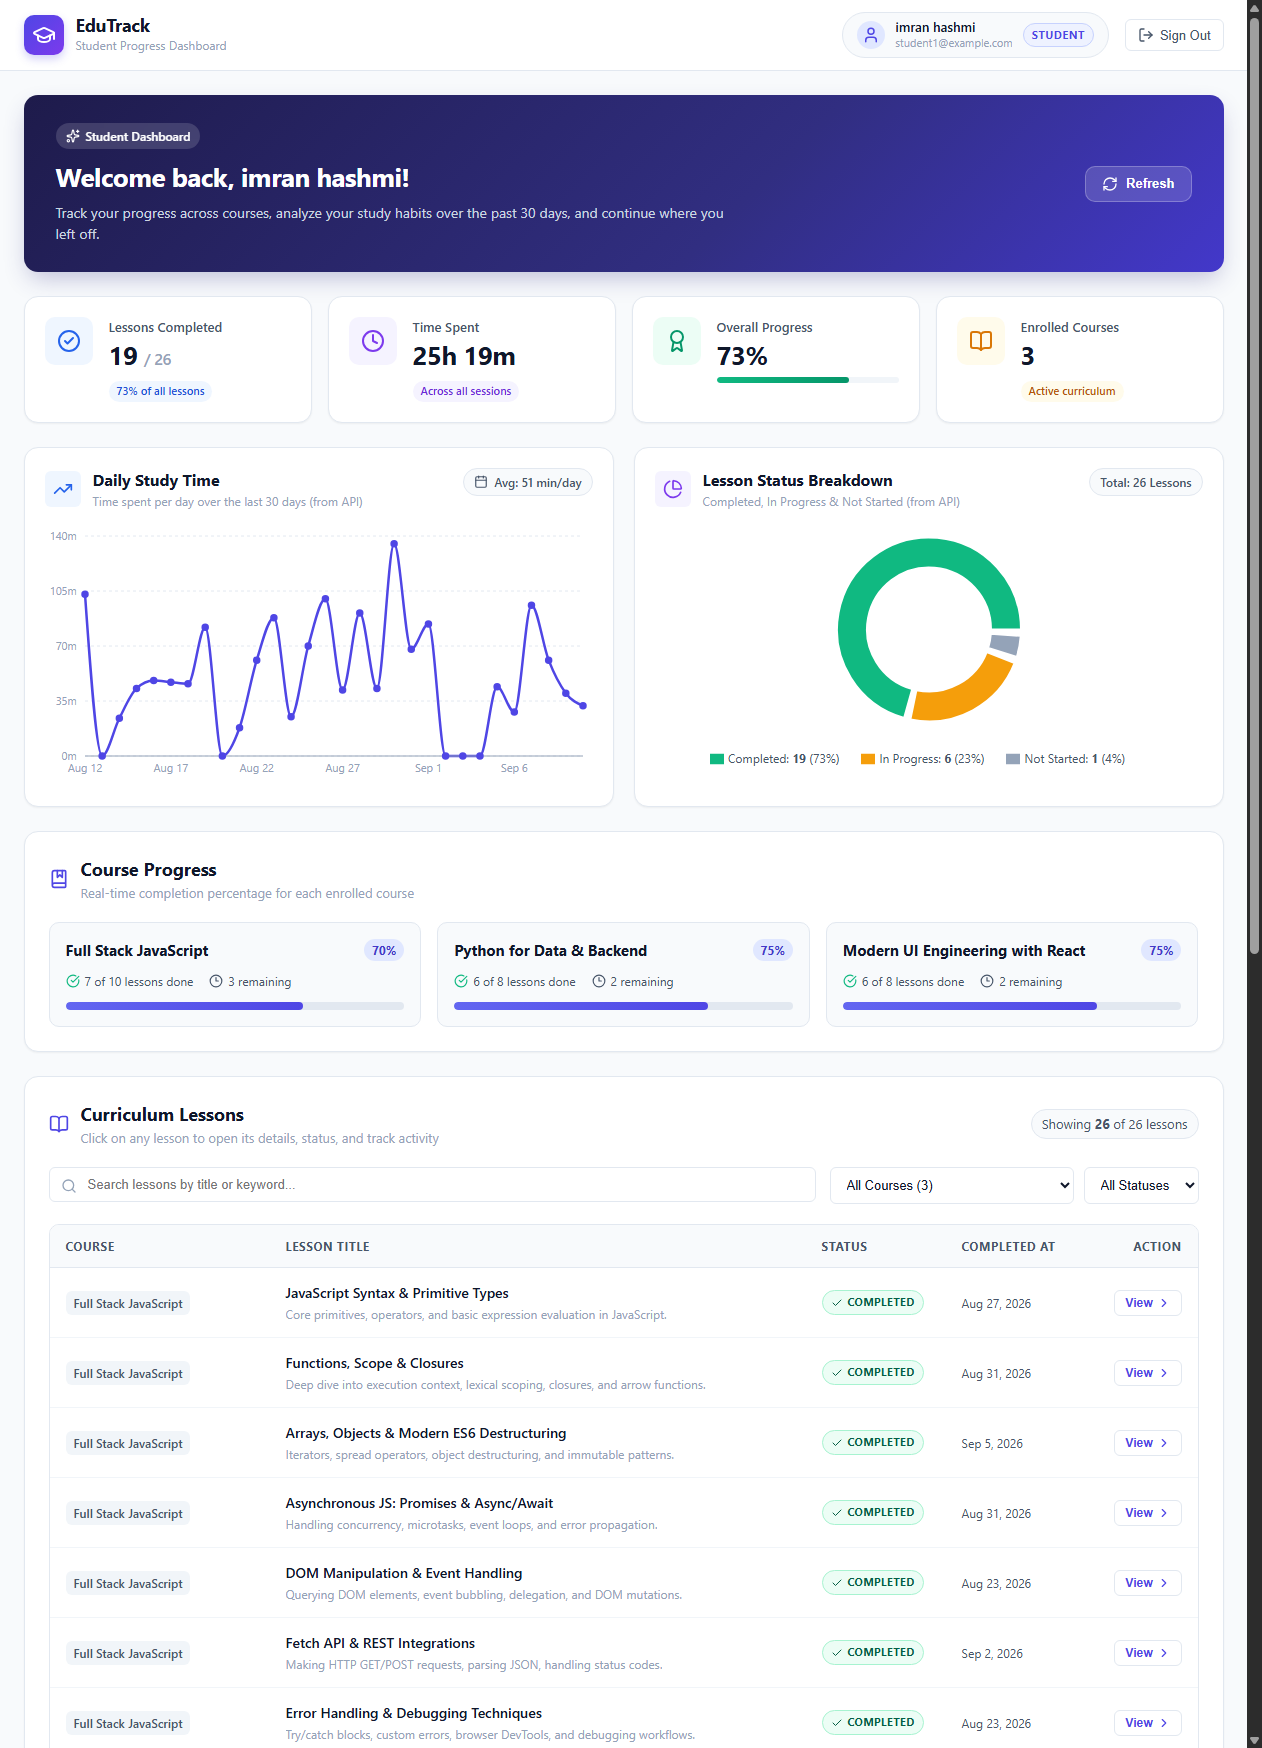
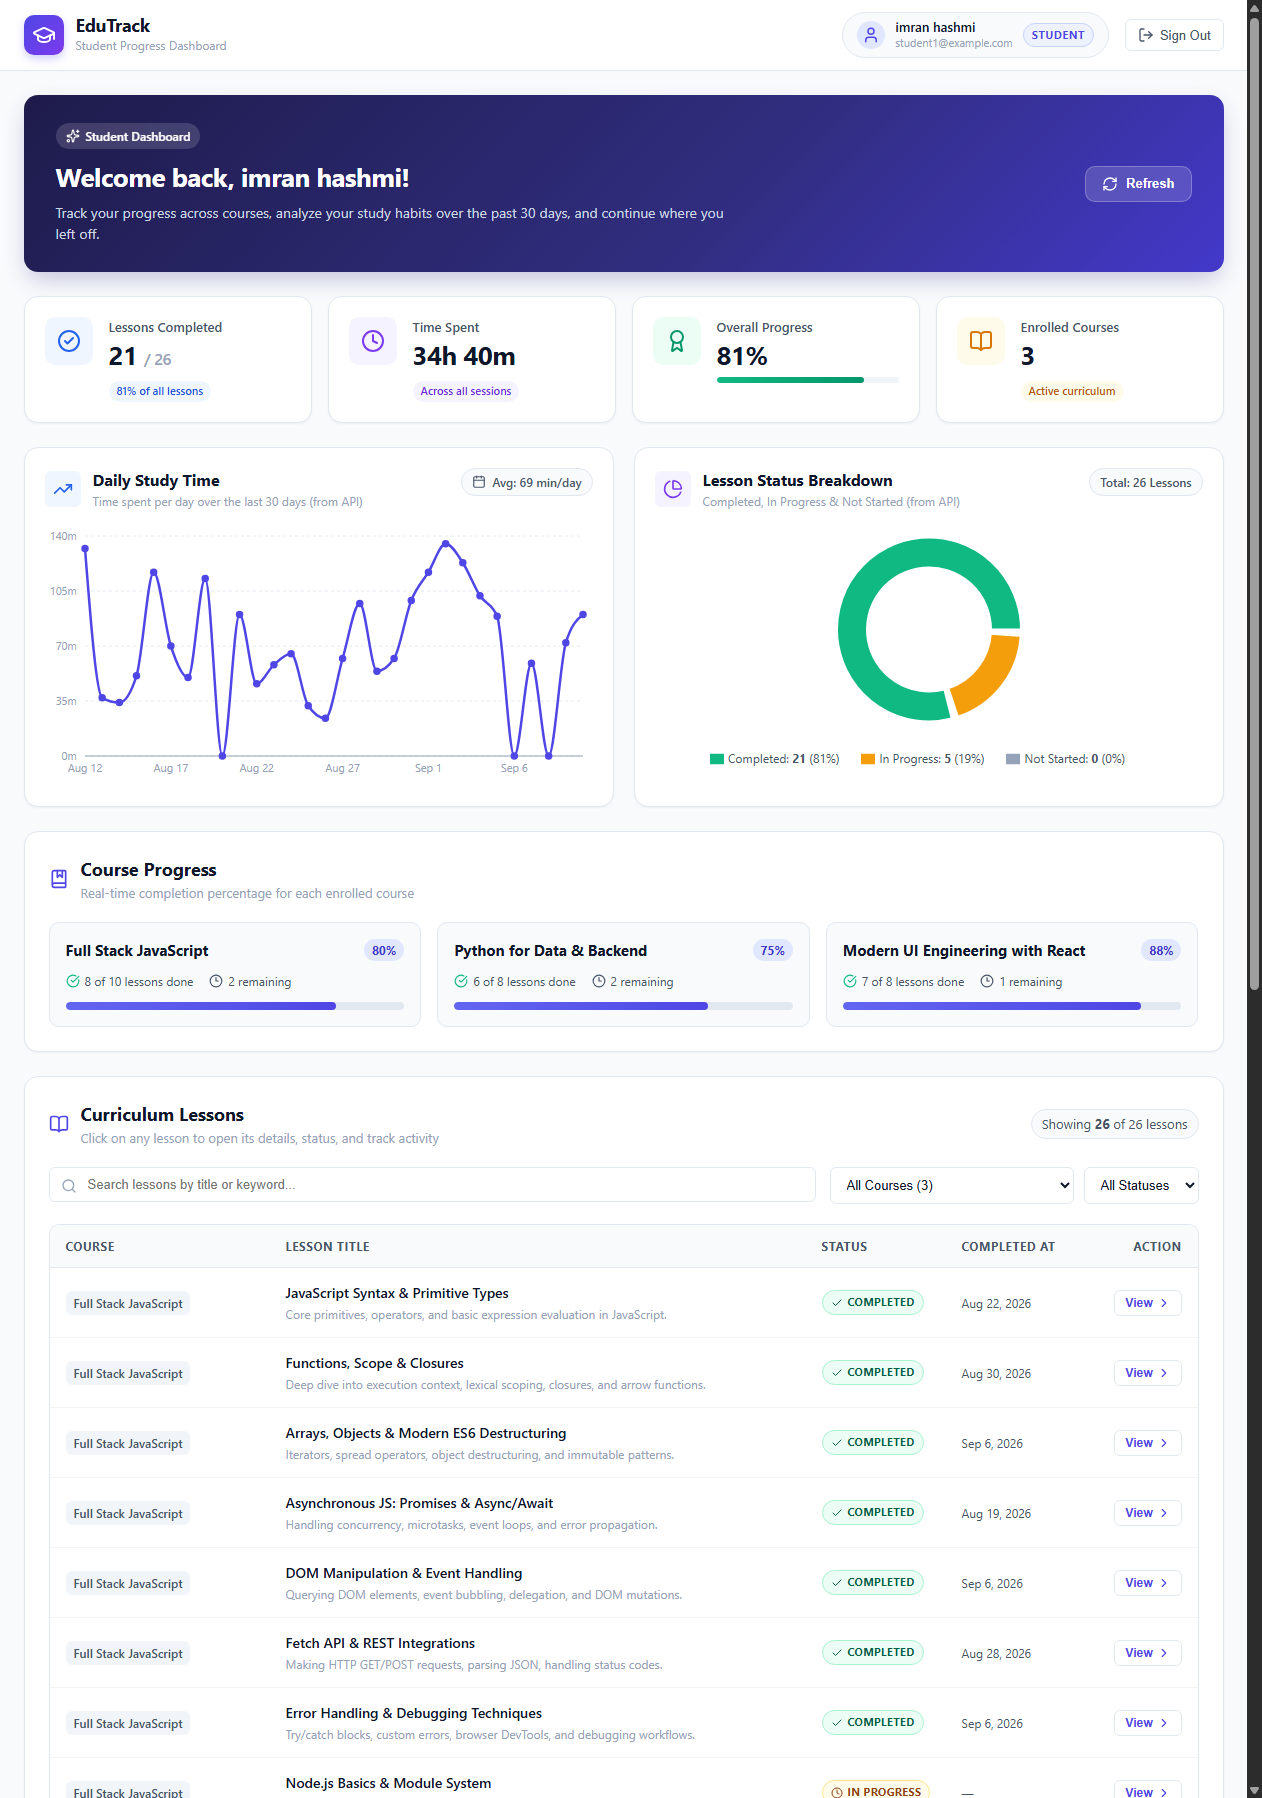
docs: add Vedant Khalshinge author credits, MIT license, anti-plagiarism notices, and UI footer

diff --git a/client/src/index.css b/client/src/index.css
@@ -1416,3 +1416,81 @@ body {
 }
 
 .mb-4 { margin-bottom: 16px; }
+
+/* FOOTER CREDITS */
+.app-footer {
+  margin-top: auto;
+  border-top: 1px solid var(--border-color);
+  background: #ffffff;
+  padding: 16px 20px;
+  font-size: 13px;
+  color: var(--text-secondary);
+}
+
+.footer-container {
+  max-width: 1240px;
+  margin: 0 auto;
+  display: flex;
+  justify-content: space-between;
+  align-items: center;
+  flex-wrap: wrap;
+  gap: 12px;
+}
+
+.footer-left {
+  display: flex;
+  align-items: center;
+  gap: 6px;
+}
+
+.heart-icon {
+  color: #ef4444;
+  vertical-align: middle;
+  display: inline;
+}
+
+.author-link {
+  color: var(--primary);
+  font-weight: 700;
+  text-decoration: none;
+  transition: color 0.15s;
+}
+
+.author-link:hover {
+  color: var(--primary-hover);
+  text-decoration: underline;
+}
+
+.footer-right {
+  display: flex;
+  align-items: center;
+  gap: 16px;
+}
+
+.footer-badge {
+  display: inline-flex;
+  align-items: center;
+  gap: 5px;
+  color: var(--text-muted);
+  font-size: 12px;
+}
+
+.footer-gh-link {
+  display: inline-flex;
+  align-items: center;
+  gap: 6px;
+  padding: 4px 10px;
+  border-radius: var(--radius-sm);
+  background: #f8fafc;
+  border: 1px solid var(--border-color);
+  color: var(--text-primary);
+  font-size: 12px;
+  font-weight: 600;
+  text-decoration: none;
+  transition: all 0.15s;
+}
+
+.footer-gh-link:hover {
+  background: #f1f5f9;
+  border-color: #cbd5e1;
+}

diff --git a/client/src/components/Footer.jsx b/client/src/components/Footer.jsx
@@ -1,0 +1,39 @@
+import React from 'react';
+import { Heart, Shield, Code, ExternalLink } from 'lucide-react';
+
+export default function Footer() {
+  return (
+    <footer className="app-footer">
+      <div className="footer-container">
+        <div className="footer-left">
+          <span>
+            Designed & Developed with <Heart size={14} className="heart-icon" /> by{' '}
+            <a
+              href="https://github.com/VedantKhalshinge"
+              target="_blank"
+              rel="noopener noreferrer"
+              className="author-link"
+            >
+              Vedant Khalshinge
+            </a>
+          </span>
+        </div>
+        <div className="footer-right">
+          <span className="footer-badge">
+            <Shield size={12} /> © 2026 EduTrack • All Rights Reserved
+          </span>
+          <a
+            href="https://github.com/VedantKhalshinge/Student-Progress-Dashboard"
+            target="_blank"
+            rel="noopener noreferrer"
+            className="footer-gh-link"
+          >
+            <Code size={14} />
+            <span>GitHub Repository</span>
+            <ExternalLink size={11} />
+          </a>
+        </div>
+      </div>
+    </footer>
+  );
+}

diff --git a/client/src/App.jsx b/client/src/App.jsx
@@ -1,7 +1,15 @@
+/**
+ * Student Progress Dashboard (EduTrack)
+ * @author Vedant Khalshinge (https://github.com/VedantKhalshinge)
+ * @license MIT
+ * Copyright (c) 2026 Vedant Khalshinge. All rights reserved.
+ */
+
 import React from 'react';
 import { BrowserRouter, Routes, Route, Navigate } from 'react-router-dom';
 import { AuthProvider, useAuth } from './context/AuthContext';
 import Navbar from './components/Navbar';
+import Footer from './components/Footer';
 import LoginPage from './pages/LoginPage';
 import StudentDashboard from './pages/StudentDashboard';
 import MentorDashboard from './pages/MentorDashboard';
@@ -32,6 +40,7 @@ function ProtectedRoute({ children, allowedRole }) {
     <div className="app-shell">
       <Navbar />
       <main className="main-content">{children}</main>
+      <Footer />
     </div>
   );
 }

diff --git a/server/src/server.js b/server/src/server.js
@@ -1,3 +1,10 @@
+/**
+ * Student Progress Dashboard API Backend
+ * @author Vedant Khalshinge (https://github.com/VedantKhalshinge)
+ * @license MIT
+ * Copyright (c) 2026 Vedant Khalshinge. All rights reserved.
+ */
+
 const express = require('express');
 const cors = require('cors');
 const dotenv = require('dotenv');

diff --git a/README.md b/README.md
@@ -1,10 +1,26 @@
 # Student Progress Dashboard (EduTrack)
 
-A full-stack student learning analytics and progress tracking web application built with **React 19**, **Recharts**, **Express.js**, and **Prisma ORM (SQLite)**.
+[![Author: Vedant Khalshinge](https://img.shields.io/badge/Author-Vedant%20Khalshinge-blue?style=for-the-badge&logo=github)](https://github.com/VedantKhalshinge)
+[![Repository](https://img.shields.io/badge/GitHub-Student--Progress--Dashboard-black?style=for-the-badge&logo=github)](https://github.com/VedantKhalshinge/Student-Progress-Dashboard)
+[![License: MIT](https://img.shields.io/badge/License-MIT-emerald?style=for-the-badge)](LICENSE)
+
+A full-stack student learning analytics and progress tracking web application engineered and designed by **[Vedant Khalshinge](https://github.com/VedantKhalshinge)** using **React 19**, **Recharts**, **Express.js**, and **Prisma ORM (SQLite)**.
 
 EduTrack provides role-based learning portals with strict security isolation:
 - **Students** view only their own progress, interactive 30-day study charts, course completion percentages, and interactive curriculum lessons with activity tracking.
 - **Mentors** view only their assigned student cohorts and can drill down into any student's complete analytics dashboard.
+
+---
+
+## 👤 Author & Ownership Notice
+
+> [!IMPORTANT]
+> **Original Project Author**: [Vedant Khalshinge](https://github.com/VedantKhalshinge)  
+> **Source Repository**: [https://github.com/VedantKhalshinge/Student-Progress-Dashboard](https://github.com/VedantKhalshinge/Student-Progress-Dashboard)  
+> All architecture, database design, API implementations, UI components, visualizations, and documentation in this repository are the original work of Vedant Khalshinge.
+> 
+> **Anti-Plagiarism & Attribution Policy**:
+> Any academic, portfolio, or commercial reuse of this codebase requires explicit credit and attribution to the author. Re-uploading or claiming this codebase as your own without direct attribution is strictly prohibited.
 
 ---
 
@@ -63,7 +79,8 @@ EduTrack provides role-based learning portals with strict security isolation:
 
 Clone or open the project folder:
 ```bash
-cd student-progress-dashboard
+git clone https://github.com/VedantKhalshinge/Student-Progress-Dashboard.git
+cd Student-Progress-Dashboard
 ```
 
 Install backend and frontend dependencies:
@@ -171,52 +188,9 @@ All endpoints under `/api/dashboard`, `/api/lessons`, `/api/activity`, and `/api
 
 ---
 
-## Project Structure
+## 📜 License & Intellectual Property
 
-```text
-student-progress-dashboard/
-├── client/                     # Frontend (React 19, Vite, Recharts, Lucide)
-│   ├── src/
-│   │   ├── components/
-│   │   │   ├── Charts.jsx             # 30-Day Line Chart & Status Donut Chart
-│   │   │   ├── CourseProgressList.jsx # Course completion % cards
-│   │   │   ├── LessonDetailModal.jsx  # Click-to-view lesson detail & event tracker
-│   │   │   ├── LessonList.jsx         # Searchable curriculum table
-│   │   │   ├── MetricsCards.jsx       # Top 4 summary metric tiles
-│   │   │   └── Navbar.jsx             # Top bar with role indicator and logout
-│   │   ├── context/
-│   │   │   └── AuthContext.jsx        # JWT state and login/logout handlers
-│   │   ├── pages/
-│   │   │   ├── LoginPage.jsx          # Login screen with quick demo accounts
-│   │   │   ├── MentorDashboard.jsx    # Mentor cohort management & student drilldown
-│   │   │   └── StudentDashboard.jsx   # Student analytics portal
-│   │   ├── api.js                     # Configured Axios instance with JWT interceptor
-│   │   ├── App.jsx                    # Route definitions and ProtectedRoute guards
-│   │   └── index.css                  # Custom styling & modern design system
-│   └── package.json
-├── server/                     # Backend (Node.js, Express, Prisma, SQLite)
-│   ├── prisma/
-│   │   ├── schema.prisma              # Data models (User, Course, Lesson, Progress, Activity)
-│   │   └── seed.js                    # Database seed script (5 students, 2 mentors, 3 courses, 30-day activity)
-│   ├── src/
-│   │   ├── middleware/
-│   │   │   └── auth.js                # JWT token authentication & role authorization
-│   │   ├── routes/
-│   │   │   ├── activity.js            # POST /api/activity
-│   │   │   ├── auth.js                # POST /api/auth/login
-│   │   │   ├── dashboard.js           # GET /api/dashboard/summary, time-series, lesson-status
-│   │   │   ├── lessons.js             # GET /api/lessons, GET /api/lessons/:id
-│   │   │   └── mentor.js              # GET /api/mentor/students and student analytics
-│   │   └── server.js                  # Express application setup and route registration
-│   └── package.json
-├── screenshots/                # Captured application screenshots
-│   ├── dashboard.png                  # Student dashboard overview
-│   ├── dashboard_full.png             # Full student dashboard
-│   ├── mentor.png                     # Mentor cohort portal
-│   ├── lesson_modal.png               # Lesson detail modal
-│   └── login.png                      # Login screen
-├── scripts/
-│   └── capture.js                     # Headless Chrome screenshot utility
-├── package.json                # Root convenience scripts (npm run seed, npm run dev)
-└── README.md                   # Complete documentation
-```
+This project is licensed under the **MIT License** with attribution requirements:
+- Copyright (c) 2026 **Vedant Khalshinge** ([https://github.com/VedantKhalshinge](https://github.com/VedantKhalshinge)).
+- You are free to inspect, review, and fork this project for evaluation purposes.
+- Any distribution, modification, or inclusion in portfolios or submissions must retain the original copyright and author notice.
